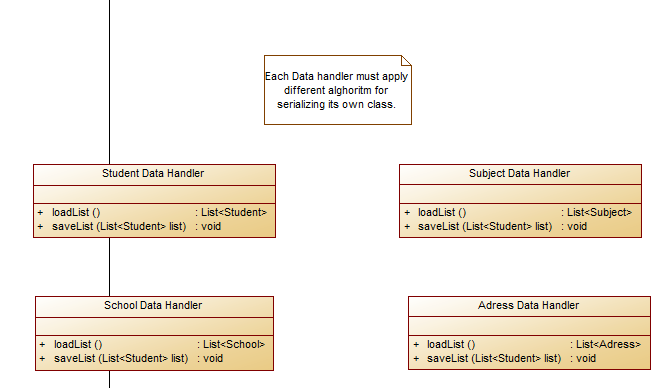
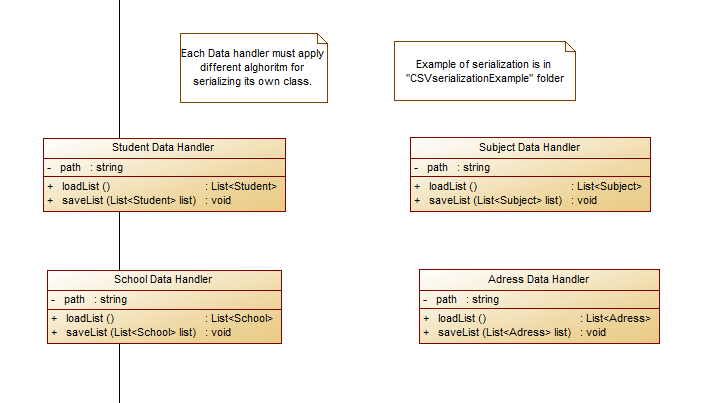
Finished serialization example, updated readme

diff --git a/CSVserializationExample/CSVserializationExample/ADataHandler.cs b/CSVserializationExample/CSVserializationExample/ADataHandler.cs
@@ -5,35 +5,60 @@ namespace CSVserializationExample
     public class ADataHandler
     {
         private string path = @"..\..\..\data\A.csv";
-           public BindingList<A> loadList()
+        public BindingList<A> loadList()
         {
 
-            BindingList<A> list = new BindingList<A>(); 
+            BindingList<A> list = new BindingList<A>();
 
             string[] lines = File.ReadAllLines(path);
-            
-            foreach(String line in lines)
+
+            foreach (String line in lines)
             {
                 string[] csvParts = line.Split('|');
 
                 int id = Int32.Parse(csvParts[0]);
                 string name = csvParts[1];
                 string surname = csvParts[2];
-
+                
+                //Generating listofBs:
                 BindingList<B> listB = new BindingList<B>();
 
-                string[]BIds = csvParts[3].Split(",");
+                string[] BIds = csvParts[3].Split(",");
 
-                foreach(string sId in BIds)
+                foreach (string sId in BIds)
                 {
-                    listB.Add(new B(Int32.Parse(sId)));  
+                    listB.Add(new B(Int32.Parse(sId)));
                 }
 
                 list.Add(new A(id, name, surname, listB));
-
             }
 
             return list;
+        }
+
+
+
+        public void saveList(BindingList<A> list)
+        {
+            using (StreamWriter writer = new StreamWriter(path))
+            {
+
+                foreach (A a in list)
+                {
+                    string line = a.id + "|" + a.name + "|" + a.surname + "|";
+
+                    //Only saving id of an B, not a whole object
+                    foreach (B b in a.listOfBs)
+                    {
+                        line = line + b.id + ",";
+                    }
+
+                    //Remove last comma 
+                    line = line.Remove(line.Length - 1, 1);
+
+                    writer.WriteLine(line);
+                }
+            }
         }
     }
 }

diff --git a/CSVserializationExample/CSVserializationExample/Program.cs b/CSVserializationExample/CSVserializationExample/Program.cs
@@ -1,38 +1,29 @@
 //Goal of this program is just to read and write from custom csv file  
+//Put a breakpoint in code and inspect states of listA and listB through debugger
 //BindingList is used so this code can be easily transfered to main project
-//Console.WriteLine("Hello, World!");
 
 using System.ComponentModel;
 using CSVserializationExample;
 
 
-
 BindingList<A> listA;
 BindingList<B> listB;
 
-//LOADING lists
-
+//DESERIALIZING
 listB = new BindingList<B>();
 BDataHandler Bhandler = new BDataHandler();
-
 listB = Bhandler.loadList();
 
-foreach(B b in listB)
-{
-    b.printMe();
-}
-
-
-
+//When loading A, only ids of Bs in listOfBs are loaded
+//Actual B objects will be added in LINKING section
 listA = new BindingList<A>();
 ADataHandler Ahandler = new ADataHandler();
-
 listA = Ahandler.loadList();
 
 
-//LNKING
+//LINKING
 //Now we need to link all B objects to ids in As list of Bs
-
+//This logic should be in linking services in real project
 foreach(A a in listA)
 {
     //Extract all ids from listOfBs and then clear list
@@ -57,9 +48,14 @@ foreach(A a in listA)
         }
     }
 }
+//WORK - START
+
+//In this section you can try manipualting with lists of As and Bs
 
 
-Console.WriteLine("This print is just so you have where to put breakpoint to see aftermath of linking in debugger.");
+//WORK - END
 
+//SERIALIZING
 
-
+Bhandler.saveList(listB);
+Ahandler.saveList(listA);

diff --git a/CSVserializationExample/CSVserializationExample/BDataHandler.cs b/CSVserializationExample/CSVserializationExample/BDataHandler.cs
@@ -5,21 +5,35 @@ namespace CSVserializationExample
     public class BDataHandler
     {
         private string path = @"..\..\..\data\B.csv";
-           public BindingList<B> loadList()
+
+        public BindingList<B> loadList()
         {
 
-            BindingList<B> list = new BindingList<B>(); 
+            BindingList<B> list = new BindingList<B>();
 
             string[] lines = File.ReadAllLines(path);
-            
-            foreach(String line in lines)
+
+            foreach (String line in lines)
             {
                 string[] csvParts = line.Split('|');
 
-                list.Add(new B(Int32.Parse(csvParts[0]), csvParts[1],Int32.Parse(csvParts[2])));
+                list.Add(new B(Int32.Parse(csvParts[0]), csvParts[1], Int32.Parse(csvParts[2])));
             }
 
             return list;
         }
+
+        public void saveList(BindingList<B> list)
+        {
+            using (StreamWriter writer = new StreamWriter(path))
+            {
+                foreach (B b in list)
+                {
+                    string line = b.id + "|" + b.name + "|" + b.amount;
+                    writer.WriteLine(line);
+                }
+            }
+        }
+
     }
 }

diff --git a/CSVserializationExample/CSVserializationExample/A.cs b/CSVserializationExample/CSVserializationExample/A.cs
@@ -5,7 +5,7 @@ namespace CSVserializationExample
     public class A
     {
         //For this example id generating algorithm won't be realized
-        //Random number generator will be used, but that is far by correct solution
+        //Random number generator will be used, but that is far from correct solution
         public int id;
         public string name;
         public string surname;
@@ -38,11 +38,5 @@ namespace CSVserializationExample
             this.listOfBs = new BindingList<B>();
             this.listOfBs = listB;
         }
-
-       public void  printMe()
-        {
-          //TODO  
-        }
-
     }
 }

diff --git a/CSVserializationExample/CSVserializationExample/B.cs b/CSVserializationExample/CSVserializationExample/B.cs
@@ -1,5 +1,4 @@
-
-namespace CSVserializationExample
+namespace CSVserializationExample
 {
     public class B
     {
@@ -7,7 +6,6 @@ namespace CSVserializationExample
         public int id;
         public string name;
         public int amount;
-
 
 
         public B() {
@@ -35,12 +33,6 @@ namespace CSVserializationExample
             this.id = id;
             this.name = name;
             this.amount = amount;
-        }
-
-
-       public void  printMe()
-        {
-            Console.WriteLine("id: " + id + " Name: " + name + " Amount: " + amount);  
         }
     }
 }

diff --git a/School/School/Program.cs b/School/School/Program.cs
@@ -11,9 +11,6 @@ namespace School
         {
             ApplicationConfiguration.Initialize();
             Application.Run(new Form1());
-
-            StartupService startupService = new StartupService();
-            startupService.Startup();
         }
     }
 }

diff --git a/School/School/Service/StartupService.cs b/School/School/Service/StartupService.cs
@@ -6,7 +6,7 @@ namespace Service
    {
       public void Startup()
       {
-            MessageBox.Show("Database loaded");
+         throw new NotImplementedException();
       }
    
    }

diff --git a/readme.md b/readme.md
@@ -2,3 +2,9 @@
 
 This project is extendable prototype for smaller projects where all files are stored locally using csv,json,xml... and you can
 allow that all lists are loaded in RAM on startup of a program. 
+
+Inside "ClassDiagram" folder is class diagram of prototype
+
+Inside "School" folder is Visual Studio project that contains base code generated from class diagram from which some classes could be directly used for real project.
+
+Inside "CSVserializationExample" folder is example of serialization using CSV that can be used for implementation of a project. Interesting part of this serialization is that it covers serialization of an object that contains a list of other objects as its field but during serialzation only ids of nested objects are stored, no whole objects. During deserialization program links real objects to stored ids. 
